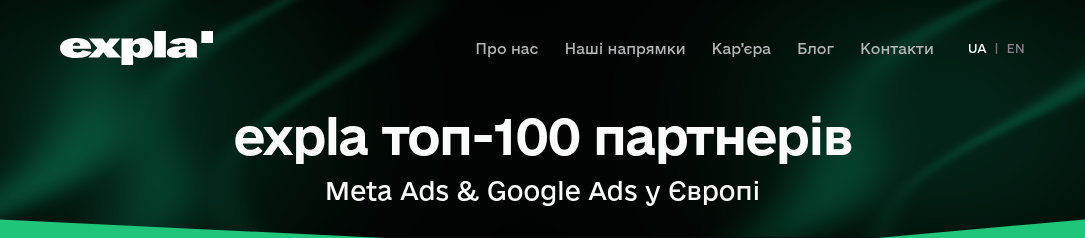
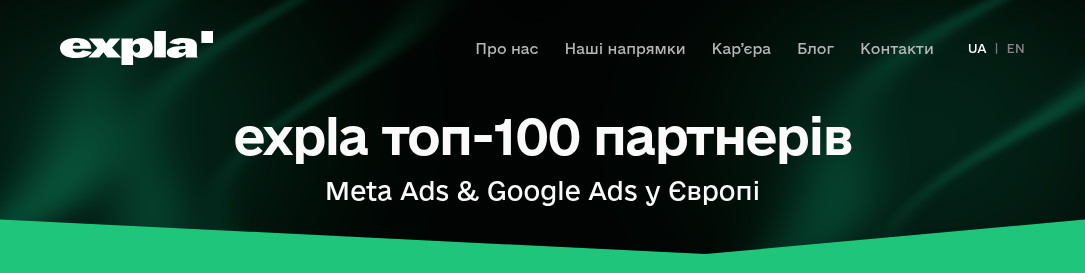
Remove gray globe rings and cover the full angled hero with the shader

Changed region(s): [[0.0, 0.4118, 1.0, 1.0], [0.4258, 0.1471, 0.9429, 0.2353], [0.0304, 0.1176, 0.2129, 0.2647]]

diff --git a/src/style.css b/src/style.css
@@ -15,7 +15,7 @@
 @media(max-width:520px){.reach{grid-template-columns:minmax(0,1fr)}}
 /* Scroll-triggered statistics, once per visit. */
 .globe-ring{display:block;background:none;mask:none;-webkit-mask:none;overflow:visible}
-.globe-ring circle{fill:none;stroke-width:1.8}.ring-track{stroke:#29292d}.ring-progress{stroke-dasharray:none;stroke-dashoffset:0;transition:none}
+.globe-ring circle{fill:none;stroke-width:1.8}.ring-progress{stroke-dasharray:none;stroke-dashoffset:0;transition:none}
 .reach.is-revealed .ring-progress{stroke-dashoffset:0}
 .meter-blocks i,.meter-blocks i.is-filled{position:relative;overflow:hidden;background:#3a3a3f}
 .meter-blocks i.is-filled::before{content:'';position:absolute;inset:0;background:var(--green);transform:scaleY(0);transform-origin:bottom;transition:transform .55s cubic-bezier(.22,.7,.25,1);transition-delay:var(--cube-delay)}
@@ -58,7 +58,7 @@
 
 /* The screenshot's emerald image treatment extends behind navigation and hero. */
 .masthead{position:relative;background:#010906}.masthead>.hero-background{inset:0;z-index:0}.masthead .site-header,.masthead .hero{position:relative;z-index:1}.masthead .hero{isolation:auto}
-.globe-ring .ring-inner{stroke:#4c5750;stroke-width:1.1;opacity:.8}
+
 @media(prefers-reduced-motion:reduce){.masthead>.hero-background{opacity:1}}
 
 /* Keep the mobile navigation above the new first-screen background and title. */
@@ -68,3 +68,10 @@
 
 .skip-link{opacity:0;pointer-events:none}.skip-link:focus{opacity:1;pointer-events:auto}
 @media(max-width:600px){.direction-dialog .dialog-benefits h4{font-size:21px;line-height:1.25}}
+
+/* Extend the real shader surface through the entire angled cutout. The equal
+   overlap keeps the directions section in place while removing the black wedge. */
+:root{--masthead-notch:clamp(20px,3.2vw,56px)}
+.masthead{padding-bottom:var(--masthead-notch)}
+.masthead+main>.directions{margin-top:calc(-18px - var(--masthead-notch));clip-path:polygon(0 0,65% var(--masthead-notch),100% 0,100% 100%,35% calc(100% - 32px),0 100%)}
+@media(max-width:760px){:root{--masthead-notch:20px}.masthead+main>.directions{clip-path:polygon(0 0,65% var(--masthead-notch),100% 0,100% 100%,35% calc(100% - 20px),0 100%)}}

diff --git a/src/components/HeroBackground.jsx b/src/components/HeroBackground.jsx
@@ -36,10 +36,10 @@ export default function HeroBackground() {
       renderer.domElement.setAttribute('aria-hidden', 'true'); host.appendChild(renderer.domElement);
       scene = new THREE.Scene(); camera = new THREE.Camera(); geometry = new THREE.PlaneGeometry(2, 2);
       material = new THREE.ShaderMaterial({
-        uniforms: { time: { value: 0 }, aspect: { value: 1 }, pointer: { value: new THREE.Vector2(.5, .5) }, activity: { value: 0 }, base: { value: new THREE.Color('#0e0e12') } },
+        uniforms: { time: { value: 0 }, aspect: { value: 1 }, pointer: { value: new THREE.Vector2(.5, .5) }, activity: { value: 0 } },
         vertexShader: 'varying vec2 uvPosition; void main(){uvPosition=uv;gl_Position=vec4(position,1.0);}',
         fragmentShader: `
-          uniform float time, aspect, activity; uniform vec2 pointer; uniform vec3 base;
+          uniform float time, aspect, activity; uniform vec2 pointer;
           varying vec2 uvPosition;
           float ribbon(vec2 uv, float anchor, float bend, float phase){
             float center=anchor+bend*(uv.y-.5)+.045*sin(uv.y*5.0+phase);
@@ -51,11 +51,12 @@ export default function HeroBackground() {
             vec2 p=(uvPosition-.5)*vec2(aspect,1.0);
             vec2 mouse=(pointer-.5)*vec2(aspect,1.0);
             float radius=length(p-mouse);
-            float t=time*.065;
-            float angle=activity*exp(-radius*radius*1.5)*sin(t+radius*4.0)*.65;
+            float t=time*.10;
+            float angle=sin(t*.7)*.035+activity*exp(-radius*radius*1.5)*sin(t+radius*4.0)*.65;
             mat2 turn=mat2(cos(angle),-sin(angle),sin(angle),cos(angle));
             p=mouse+turn*(p-mouse);
             vec2 uv=p/vec2(aspect,1.0)+.5;
+            uv+=vec2(.008*sin(t*.6+uv.y*4.0),.006*sin(t*.4+uv.x*3.0));
             float streams=ribbon(uv,.06,.24,t)+ribbon(uv,.17,.18,t+1.4)*.8
               +ribbon(uv,.28,.13,t+3.0)*.55+ribbon(uv,.80,.25,t+1.0)
               +ribbon(uv,.94,.20,t+3.8)*.7;

diff --git a/src/App.jsx b/src/App.jsx
@@ -130,7 +130,6 @@ export default function App() {
       <section className={`reach container${reachRevealed ? ' is-revealed' : ''}`} ref={reachRef} aria-label={t.globe}>
         <div className="reach-globe"><svg className="globe-ring" viewBox="0 0 100 100" aria-hidden="true">
           <defs><linearGradient id={ringGradient} x1="0" y1="0" x2="1" y2="1"><stop offset="0%" stopColor="#20c57c"/><stop offset="55%" stopColor="#138353"/><stop offset="100%" stopColor="#06492e"/></linearGradient></defs>
-          <circle className="ring-track" cx="50" cy="50" r="49"/><circle className="ring-inner" cx="50" cy="50" r="46.5"/>
           <circle className="ring-progress" cx="50" cy="50" r="49" pathLength="100" stroke={`url(#${ringGradient})`}/>
         </svg><Globe dataUrl={`${import.meta.env.BASE_URL}data/countries.geojson`}/></div>
         <div className="reach-copy"><p className="reach-intro">{t.seen}</p><p className="reach-value">80<span>%</span></p><h2>{t.online}</h2>

diff --git a/docs/WEBSITE.md b/docs/WEBSITE.md
@@ -42,7 +42,7 @@ A pushed branch does not prove Pages is enabled or the URL is live. This cloud e
 
 ## Current motion and interactions
 
-The globe ring is a static, closed green outline with a muted inner rim, following the supplied screenshot; it is decorative rather than an 80% progress arc. Only the eight-of-ten cubes animate on the reach section's first viewport entry, with staggered bottom-to-top fills. Reduced-motion users see the final cube state immediately.
+The globe ring is a static, closed green gradient outline without gray inner or backing rings, following the supplied screenshot; it is decorative rather than an 80% progress arc. Only the eight-of-ten cubes animate on the reach section's first viewport entry, with staggered bottom-to-top fills. Reduced-motion users see the final cube state immediately.
 
 Holding the primary pointer pauses globe auto-rotation. Horizontal manual turning still works; release, cancellation, or loss of window focus resumes rotation with a fresh timestamp baseline, avoiding catch-up jumps. Vertical gestures do not tilt the globe.
 
@@ -69,3 +69,9 @@ The current Figma background (`6176:31760`), direction-popup (`6176:31485`), and
 The six original OTF files from the user-uploaded `e-Ukraine-20261026T185604Z-1-001.zip` are self-hosted under `src/assets/fonts`: Thin (100), UltraLight (200), Light (300), Regular (400), Medium (500), and Bold (700). They are loaded through `@font-face` with `font-display: swap`, without external font services. Vite fingerprints the files and rewrites their URLs for subdirectory hosting. The original outlined SVG logo remains independent of the website font.
 
 The popup close control has a vector cross; hover/focus uses the existing green brand accent. This state is implemented and tested, but its exact Figma hover frame remains unavailable through the connected tools. The mobile header stacking order keeps the open menu above the hero text and background.
+
+## Full angled shader surface and reference website
+
+The shader canvas includes the masthead's full lower angled region. Responsive padding and an equal negative overlap keep the page sections in place while ensuring the clipped green section cannot expose an unshaded black triangle. Background motion includes slow autonomous drift/rotation as well as damped pointer interaction; reduced motion stays static. Responsive tests check coverage at 320, 390, 768, and 1440px.
+
+`https://expla.com/ua/` is the company reference website, not this repository's deployment target. The user clarified that the official website must not be modified. This repository continues to publish its preview through GitHub Pages. Reading the official reference returned a proxy HTTP 403, so header/footer contact details and destination URLs beyond those already supplied cannot be verified or copied here. They should be supplied directly rather than invented.
